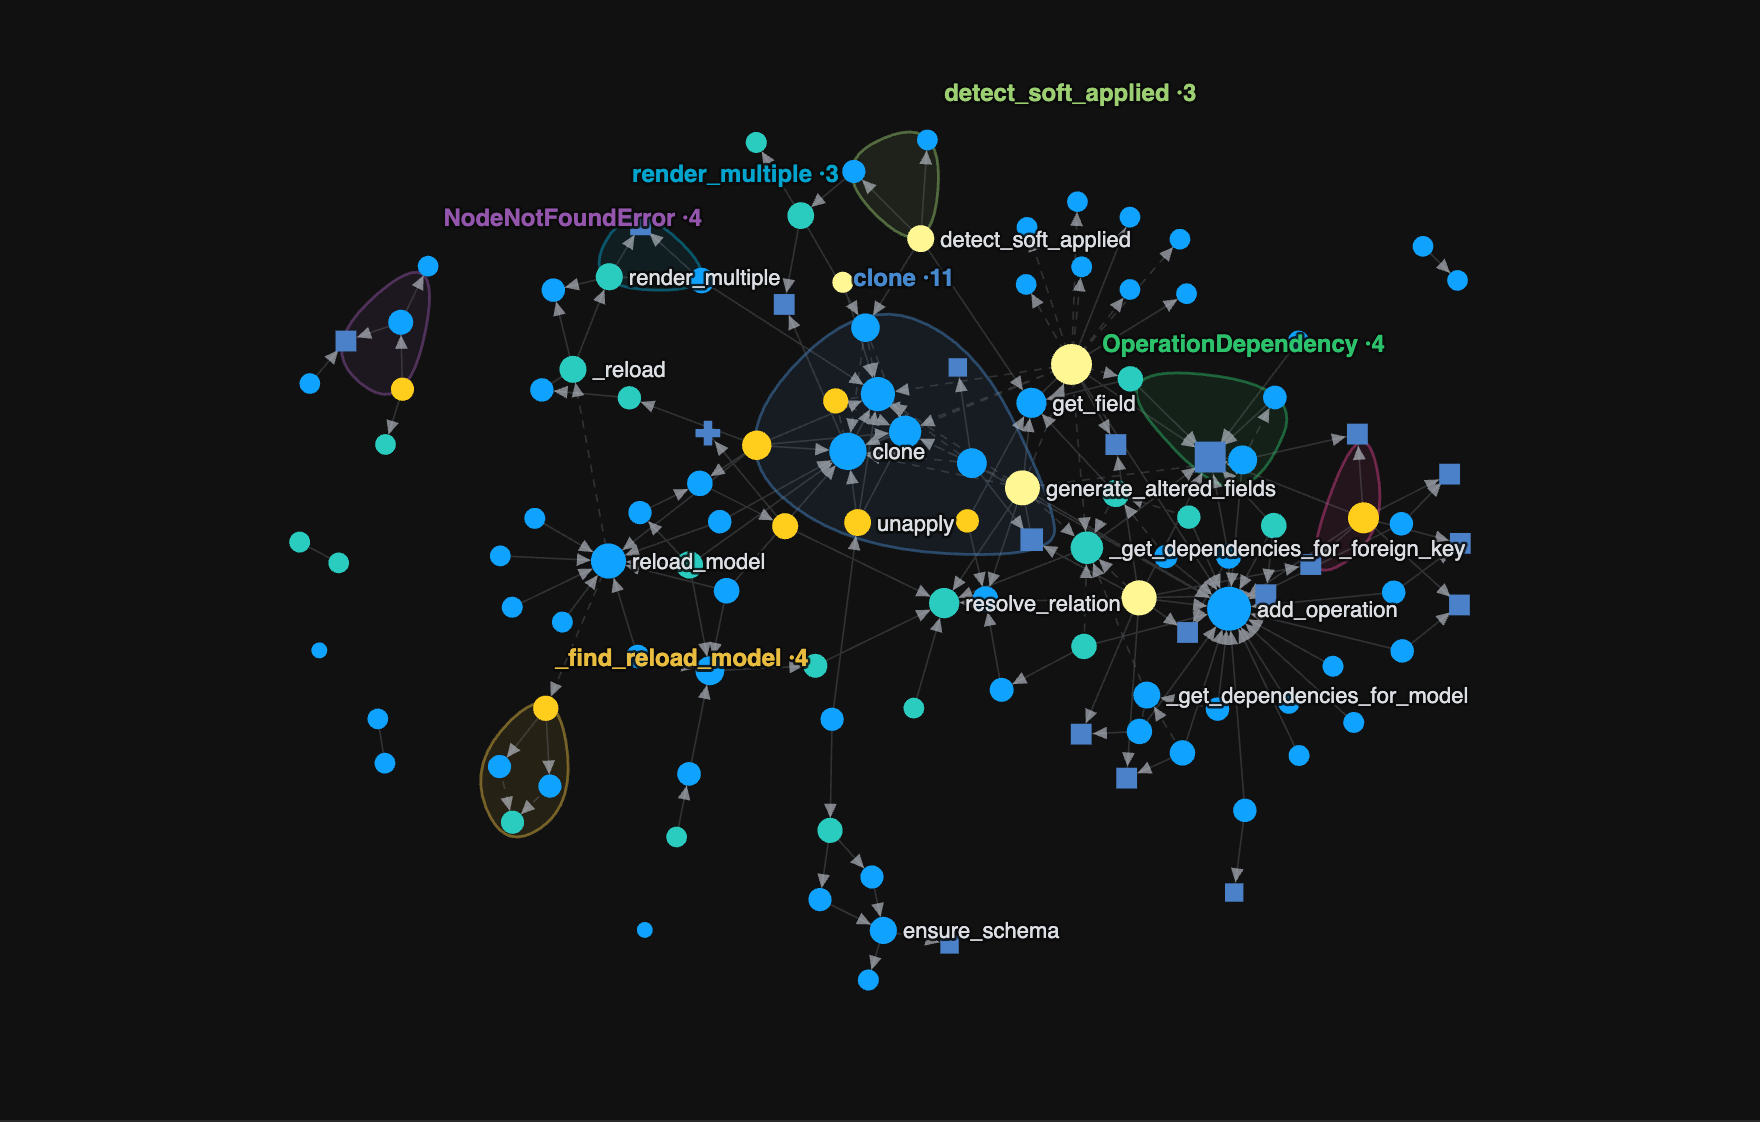
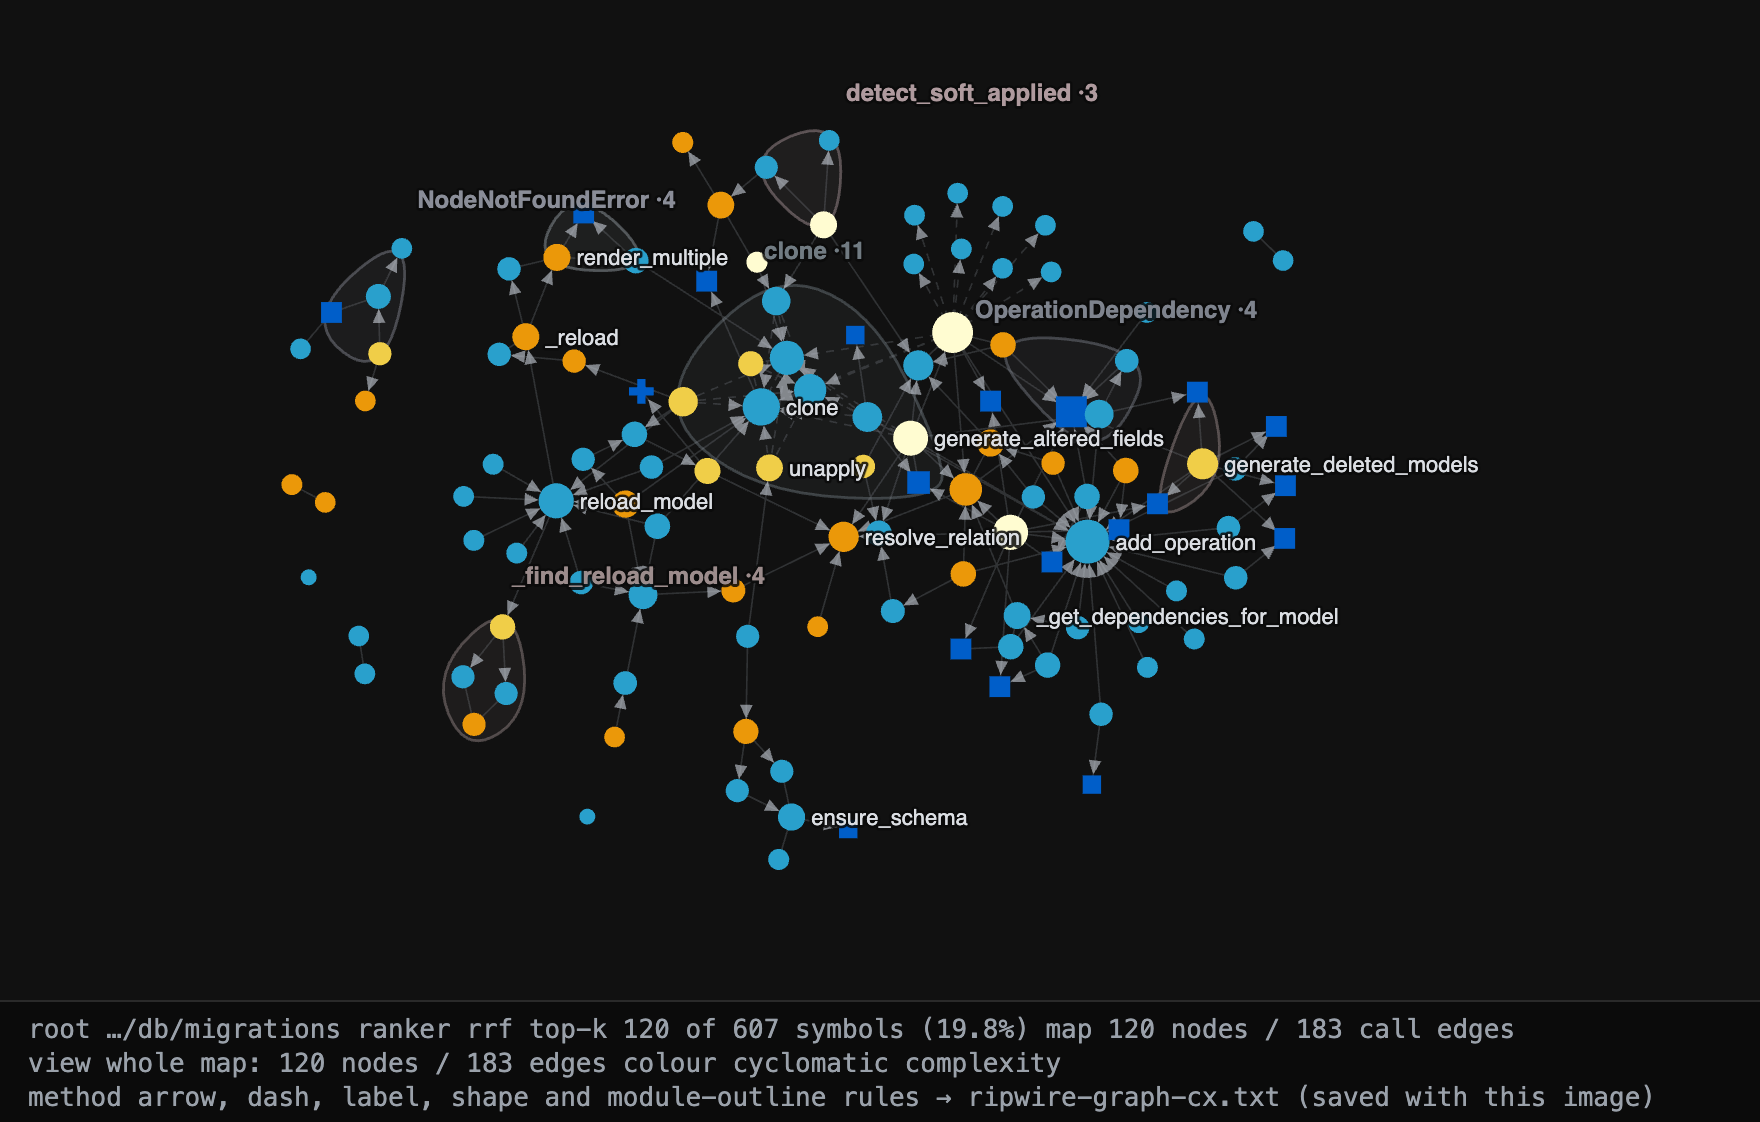
fix(html): the auto-fit frames what the page draws, not where the centres are
fitView fitted the bounding box of node CENTRES against a flat 70 px pad.
That is a different set from what lands on the canvas: a node is a disc of
up to MAX_NODE_PX, and a labelled node carries its name to the RIGHT in
screen-constant 11 px text -- `generate_deleted_models` is 130 px of glyphs
the centre-box knows nothing about. The pad absorbed the discs and one
short name, so the defect only surfaced when a wide name happened to land
on the right edge, and then it surfaced on the front page: the README's own
lens figure shipped with a symbol's name sliced in half by the frame.

It is not fixable downstream either. The frame is what the README's stated
command produces, so hand-panning the screenshot would publish a picture
that command does not make -- which is the same defect the figure rewrite
set out to remove.

So reserve the drawn EXTENT per node and solve for the largest scale that
holds all of them. The extents are screen-constant (radii and label metrics
are both in screen px, deliberately), so they do not move as `scale` does,
which makes the solve exact rather than iterative-until-it-looks-right: for
a given s the admissible offset is an interval, feasibility is that interval
being non-empty, and feasibility is monotone in s. Binary-search s, then
take the interval's midpoint, which centres the drawn content rather than
the centres.

Two consequences worth stating. The pad is now a FRACTION of the shorter
[…]

diff --git a/src/htmlexport.h b/src/htmlexport.h
@@ -522,6 +522,9 @@ static const char kScriptSim[] = R"JS(
   var MIN_NODE_PX = 4.0, MAX_NODE_PX = 15.0;
   var LABEL_HALO_PX = 3.0;       // the dark outline stroked behind every label (see placeLabel)
   var LABEL_CULL_PX = 2000;      // a label anchored further than this off-canvas is skipped (see placeLabel)
+  var LABEL_H = 13;              // how tall a drawn label actually is — placeTextAt reserves rows with it
+  var LABEL_GAP_PX = 3;          // placeLabel's gap between a node's edge and the first glyph of its name
+  var LABEL_BASE_PX = 4;         // ...and how far BELOW the node centre that name's baseline sits
   // THE INTEGRATOR'S STABILITY LIMIT, and the freeze that came of not having one.
   //
   // The spring term is LINEAR in distance with no cap, so a node's effective stiffness scales with its
@@ -720,20 +723,103 @@ static const char kScriptSim[] = R"JS(
     renderProv();
   }
 
-  // frame ALL nodes into the viewport with padding. Called each settling frame (while autoFit) so the graph
-  // is visible no matter how far the force sim spreads it; the user taking control (pan/zoom/drag) stops it.
+  // frame everything the page DRAWS into the viewport. Called each settling frame (while autoFit) so the
+  // graph is visible no matter how far the force sim spreads it; the user taking control stops it.
+  //
+  // It used to fit the bounding box of node CENTRES against a flat 70 px pad, and that is not the same
+  // set as what lands on the canvas. A node is a disc of up to MAX_NODE_PX, and a labelled node also
+  // carries its name to the RIGHT, in screen-constant 11 px text — `generate_deleted_fields` is 130 px
+  // of glyphs that the centre-box knows nothing about. The flat pad absorbed the discs and roughly one
+  // short name, so the defect only appears when a wide label happens to sit on the right edge: the
+  // README's own lens figure shipped with a name sliced in half by the frame. Worse, it is not fixable
+  // downstream — the frame is what the stated command produces, so a hand-panned screenshot would be a
+  // picture the README's own reproduction line does not make.
+  //
+  // Reserve the drawn EXTENT per node instead, and solve for the largest scale that fits all of them.
+  // The extents are screen-constant (radii and label metrics are both in screen px, deliberately — see
+  // placeTextAt), so they do not move as `scale` does, which is what makes the solve exact rather than
+  // iterative-until-it-looks-right: for a given s, node i occupies [x_i*s + ox - Lft_i, x_i*s + ox +
+  // Rgt_i], so the admissible ox is an interval, feasibility is that interval being non-empty, and
+  // feasibility is monotone in s. Binary-search s, then take the interval's midpoint, which centres the
+  // drawn content — not the centres — in the frame.
+  //
+  // Hull NAMES are not reserved: their anchors are computed in screen space during the hull pass, which
+  // needs the camera this function is choosing. The right margin a labelled node reserves absorbs most
+  // of that, and a clipped hull name is one word of a region title rather than a symbol's identity.
+  // The frame's own breathing room, on top of every reserved box — a FRACTION of the shorter side, not a
+  // pixel count, so a thumbnail and a full-width figure get the same visual air rather than the same
+  // number of pixels. A fixed pad reads as generous at 430 px and as a hairline at 1600. Floored so a
+  // very small canvas still gets a margin at all; the graph is meant to sit IN the frame, not against it.
+  var FIT_PAD_FRAC = 0.13, FIT_PAD_MIN_PX = 18;
+  function fitPad() { return Math.max(FIT_PAD_MIN_PX, FIT_PAD_FRAC*Math.min(W, H)); }
   function fitView() {
     if (!N) return;
-    var minX = Infinity, minY = Infinity, maxX = -Infinity, maxY = -Infinity;
+    ctx.font = '11px sans-serif';                       // placeLabel's font — measure what IT will draw
+    var lft = new Float64Array(N), rgt = new Float64Array(N);
+    var top = new Float64Array(N), bot = new Float64Array(N);
     for (var i = 0; i < N; i++) {
-      var n = nodes[i];
-      if (n.x < minX) minX = n.x;  if (n.x > maxX) maxX = n.x;
-      if (n.y < minY) minY = n.y;  if (n.y > maxY) maxY = n.y;
+      var rp = nodeRadiusPx(nodes[i]);
+      lft[i] = rp; rgt[i] = rp; top[i] = rp; bot[i] = rp;
     }
-    var pad = 70, gw = Math.max(1, maxX-minX), gh = Math.max(1, maxY-minY);
-    scale = Math.max(0.05, Math.min((W-2*pad)/gw, (H-2*pad)/gh, 2.0));
-    ox = (W - scale*(minX+maxX))/2;
-    oy = (H - scale*(minY+maxY))/2;
+    for (var li = 0; li < labelDegreeOrder.length; li++) {
+      // The declutter grid may still drop some of these; reserving for a label that is then skipped only
+      // zooms out a hair, while NOT reserving for one that is drawn slices it. Over-reserve, deliberately.
+      var k = labelDegreeOrder[li], rpk = nodeRadiusPx(nodes[k]);
+      rgt[k] = Math.max(rgt[k], rpk + LABEL_GAP_PX + ctx.measureText(nodes[k].label).width);
+      top[k] = Math.max(top[k], LABEL_H - LABEL_BASE_PX);
+      bot[k] = Math.max(bot[k], LABEL_BASE_PX + 2);
+    }
+
+    // The admissible offset interval on one axis at scale s, or null when no offset fits every box.
+    function offsetRange(s, pad, axisY, extent) {
+      var lo = -Infinity, hi = Infinity;
+      for (var i = 0; i < N; i++) {
+        var q = ( axisY ? nodes[i].y : nodes[i].x ) * s;
+        var before = axisY ? top[i] : lft[i], after = axisY ? bot[i] : rgt[i];
+        var l = pad + before - q;                      if ( l > lo ) { lo = l; }
+        var h = extent - pad - after - q;              if ( h < hi ) { hi = h; }
+      }
+      return lo <= hi ? [lo, hi] : null;
+    }
+
+    // PADDING IS A PREFERENCE; CONTAINMENT IS THE PROPERTY. On a narrow canvas one long name can be most
+    // of the width — `_get_altered_foo_together_operations` measures ~200 px against a 430 px figure — so
+    // the proportional pad plus that label can be wider than the frame, at which point NO scale fits and
+    // the graph would fall back to the old clipping fit. Give the pad up before giving up containment:
+    // halve it until a fit exists. The generous margin survives wherever there is room for it, which is
+    // every full-width figure, and a cramped thumbnail loses air rather than losing a symbol's name.
+    var pad = fitPad();
+    while (pad > 0.5 && !(offsetRange(0.05, pad, false, W) && offsetRange(0.05, pad, true, H))) { pad /= 2; }
+    if (pad <= 0.5) { pad = 0; }
+    function fits(s) { return offsetRange(s, pad, false, W) !== null && offsetRange(s, pad, true, H) !== null; }
+
+    var loS = 0.05, hiS = 2.0;
+    if (!fits(loS)) {
+      // Even the floor cannot hold the drawn boxes (a canvas smaller than one label, say). Fall back to
+      // the centre-box fit rather than emitting a NaN camera, and let the picture overflow visibly.
+      var minX = Infinity, minY = Infinity, maxX = -Infinity, maxY = -Infinity;
+      for (var j = 0; j < N; j++) {
+        var n = nodes[j];
+        if (n.x < minX) minX = n.x;  if (n.x > maxX) maxX = n.x;
+        if (n.y < minY) minY = n.y;  if (n.y > maxY) maxY = n.y;
+      }
+      scale = loS;
+      ox = (W - scale*(minX+maxX))/2;
+      oy = (H - scale*(minY+maxY))/2;
+      return;
+    }
+    if (!fits(hiS)) {
+      for (var it = 0; it < 24; it++) {                 // 2.0 halved 24 times resolves scale to ~1e-7
+        var mid = (loS + hiS)/2;
+        if (fits(mid)) { loS = mid; } else { hiS = mid; }
+      }
+    } else {
+      loS = hiS;                                       // a tiny graph: the 2.0 ceiling is the binding limit
+    }
+    scale = loS;
+    var rx = offsetRange(scale, pad, false, W), ry = offsetRange(scale, pad, true, H);
+    ox = (rx[0] + rx[1])/2;                            // centre the DRAWN content, not the centres
+    oy = (ry[0] + ry[1])/2;
   }
 
   // --- simulation ---
@@ -1217,7 +1303,7 @@ static const char kScriptDraw[] = R"JS(
     // rather than estimated from the character count (an estimate that runs short reserves less than it
     // draws, which is the same collision by a second route).
     var labelCells = new Set();
-    var CELL_W = 8, CELL_H = 16, LABEL_H = 13;
+    var CELL_W = 8, CELL_H = 16;                          // LABEL_H is hoisted — fitView reserves with the same number
     // placeTextAt is the whole placement rule — cull, reserve, halo, draw — with no idea what the text
     // is FOR. It was placeLabel(i) and nothing else until the hulls needed names too; a second copy for
     // hull labels would have been a second occupancy grid's worth of behaviour that could disagree with
@@ -1251,7 +1337,7 @@ static const char kScriptDraw[] = R"JS(
     }
     function placeLabel(i) {
       var n = nodes[i], rpx = nodeRadiusPx(n);              // rpx is already a SCREEN radius
-      return placeTextAt(n.label, n.x*scale + ox + rpx + 3, n.y*scale + oy + 4,
+      return placeTextAt(n.label, n.x*scale + ox + rpx + LABEL_GAP_PX, n.y*scale + oy + LABEL_BASE_PX,
                          '#e6e9ee', (hl && !hl.has(i)) ? 0.25 : 0.95);
     }
     // Hull names go in FIRST, through the same grid: a region's name outranks any single symbol's,

diff --git a/README.md b/README.md
@@ -105,7 +105,7 @@ the top 10 on **58.3%** of instances — the best alternative lands 40.0% — wh
 
 ### See the map — not just the numbers
 
-<p align="center"><img src="docs/assets/graph-cx.png" alt="ripwire --html on Django's migration autodetector: 120 symbols, 183 call edges, arrows pointing caller to callee, nodes coloured by cyclomatic complexity on a five-stop blue-to-yellow scale, module outlines drawn as translucent regions, and low-confidence call edges drawn with dashed shafts" width="880"></p>
+<p align="center"><img src="docs/assets/graph-cx.png" alt="ripwire --html on Django's migration autodetector: 120 symbols, 183 call edges, arrows pointing caller to callee, nodes coloured by cyclomatic complexity on a five-stop scale running deep blue, mid blue, amber, orange, pale yellow, module outlines drawn as translucent regions, and low-confidence call edges drawn with dashed shafts" width="880"></p>
 
 <p align="center"><sub><b>Django's migration autodetector, coloured by complexity.</b> Thresholds are fixed, so the colour means the same thing on every repo you point it at.</sub></p>
 
@@ -120,7 +120,7 @@ ripwire path/to/django/db/migrations --rank-by=rrf --top-k=120 --color-by=cx --h
 </tr>
 <tr>
 <td><sub><b>The same graph, re-coloured by git churn.</b> 76% of these nodes move to a different band — structure and history disagree, and one run shows you both.</sub></td>
-<td><sub><b>A dashed shaft is a guess.</b> 40 of 183 edges here fall below the resolver's confidence bar. No other tool marks which of its arrows it is unsure about.</sub></td>
+<td><sub><b>A dashed shaft is a guess.</b> 31 of 183 edges here are one arm of a split the resolver could not choose between. No other tool marks which of its arrows it is unsure about.</sub></td>
 </tr>
 </table>
 
@@ -132,7 +132,7 @@ One self-contained HTML file (`--html[=FILE]`), no server, no CDN, no external a
 Read from the figures above, which state their own rules in a sidecar saved beside each image:
 
 - **arrow points caller → callee** — the graph is directed, and the page draws it that way.
-- **`40 of 183 shafts dashed = resolver confidence below 0.20`** — per *edge*, not per symbol. A symbol-level "this function makes some ambiguous calls" would mark every one of its edges, which would be a lie about most of them.
+- **`31 of 183 shafts dashed in this view = the resolver could not choose between same-name definitions and split the call over all of them`** — per *edge*, not per symbol. A symbol-level "this function makes some ambiguous calls" would mark every one of its edges, which would be a lie about most of them.
 - **labels: top 24 by in-view degree, one per name** — one label per distinct name, so a picture of a container class stops crowding out the functions you asked about.
 - **shapes: ● fn ■ cls ✚ var** — kind is nominal data on a nominal channel; complexity never uses shape.
 - **module outlines: `7 of 12 modules with 3+ nodes in view (cap 12; 3 dropped as too thin to read as a region; 2 dropped as enclosing mostly other modules)`** — three separate truncations, each with its own count and its own reason.
